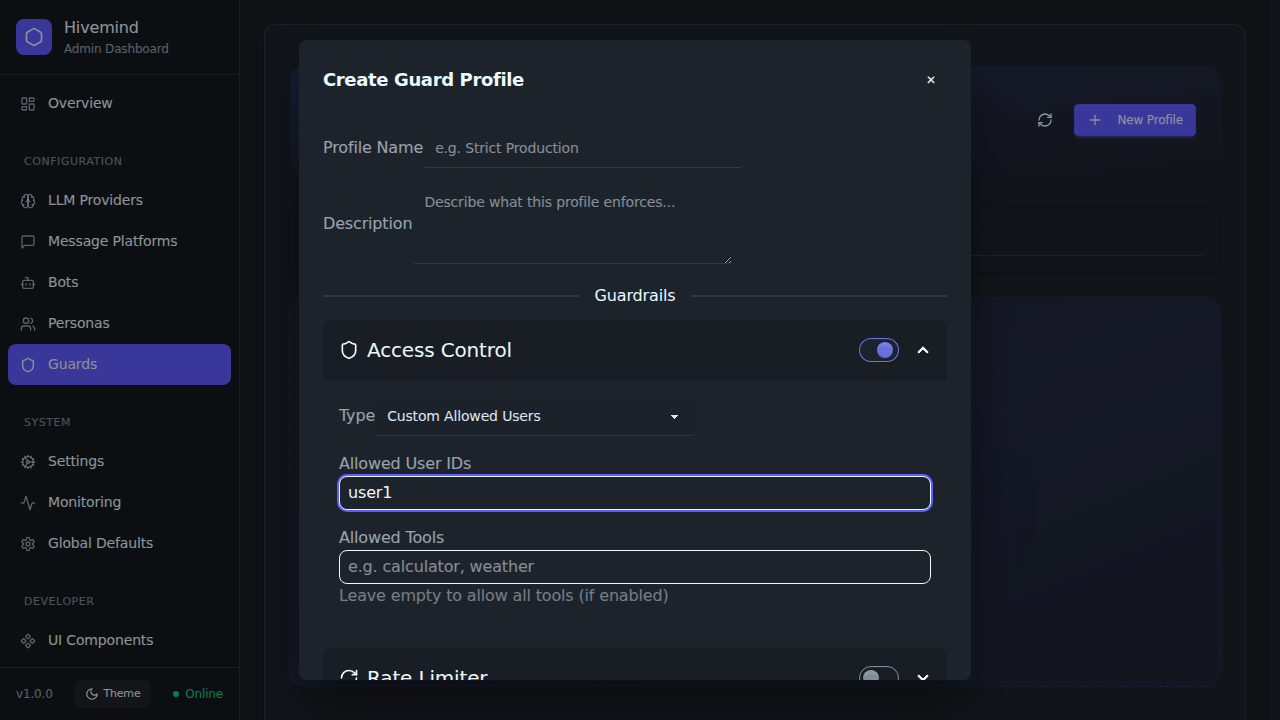
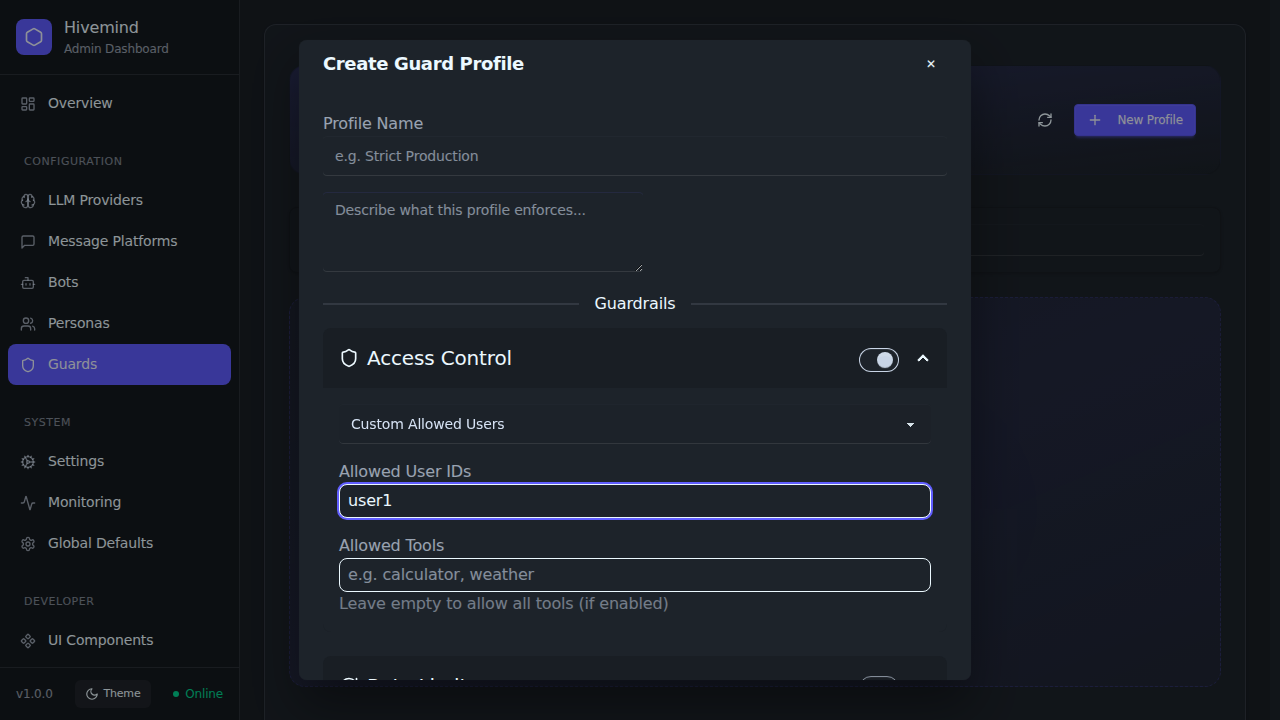
Refiner (Form Validation UX and Error Messaging): Fix comma chip behavior (#1290)
feat: Enhanced comma chip handling with undo/redo and clear all

diff --git a/tests/e2e/test-mcp-guard-ux.spec.ts b/tests/e2e/test-mcp-guard-ux.spec.ts
@@ -19,7 +19,7 @@ test('verify MCP Guard UX', async ({ page }) => {
 
   await page.goto('/admin/guards');
 
-  await page.getByRole('button', { name: 'New Profile' }).click();
+  await page.getByRole('button', { name: 'New Profile' }).first().click();
 
   const modal = page.locator('.modal-box').filter({ hasText: /Create.*Profile/i });
   await expect(modal).toBeVisible();
@@ -46,21 +46,38 @@ test('verify MCP Guard UX', async ({ page }) => {
 
   // Type second value and press enter
   await usersInput.pressSequentially('user2');
-  await usersInput.press('Enter');
+
+  await page.waitForTimeout(500);
 
   // Screenshot after typing second value
   await page.screenshot({ path: 'docs/screenshots/mcp-guard-ux-after.png' });
 
-  // Wait for the badges to appear
-  const badges = modal.locator('.badge', { hasText: /user1|user2/ });
-  await expect(badges).toHaveCount(2);
+  const value = await usersInput.inputValue();
+  console.log('Input value after typing "user2":', value);
+  expect(value).toBe('');
 
-  // Validate badge texts exactly
-  const firstBadge = badges.nth(0);
-  const secondBadge = badges.nth(1);
-  await expect(firstBadge).toHaveText(/user1/);
-  await expect(secondBadge).toHaveText(/user2/);
+  const chips = modal.locator('[data-testid="chip"]');
+  await expect(chips).toHaveCount(2);
 
-  // The input value itself is cleared after pressing Enter
-  expect(await usersInput.inputValue()).toBe('');
+  // Wait for the clear button to be visible
+  const clearButton = modal.locator('button[aria-label="Clear all items"]').first();
+  await expect(clearButton).toBeVisible();
+
+  // Take screenshot with chips
+  await page.screenshot({ path: 'after-fix-feedback.png' });
+
+  // Clear it
+  await clearButton.click();
+
+  // Give it a moment to render
+  await page.waitForTimeout(500);
+
+  // Verify it cleared
+  await expect(clearButton).not.toBeVisible();
+  await expect(chips).toHaveCount(0);
+
+  const undoButton = modal.locator('button[aria-label="Undo"]').first();
+  await undoButton.click();
+  await expect(chips).toHaveCount(2);
+  await page.screenshot({ path: 'docs/screenshots/mcp-guard-ux-after-undo.png' });
 });
